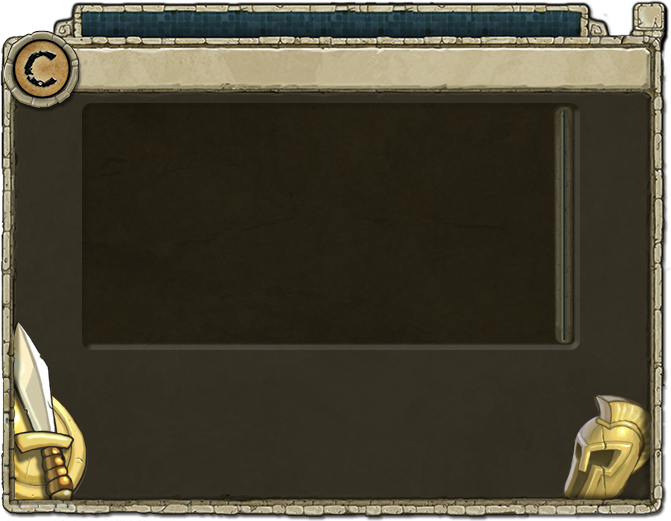
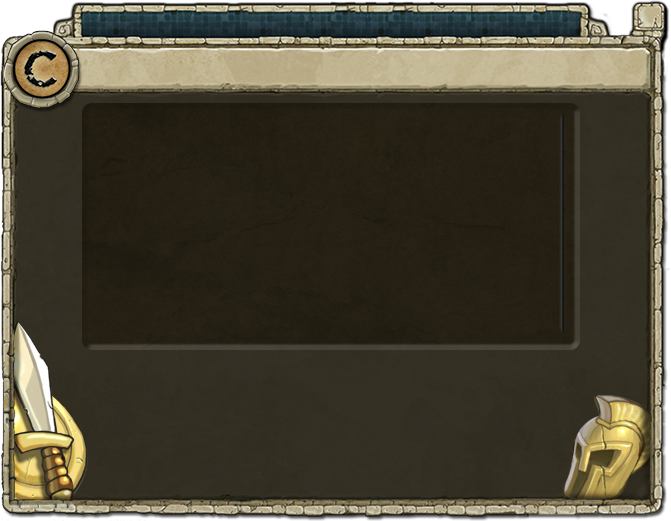
Fixed visual bugs in game scanner, download size progression

Changed region(s): [[0.8048, 0.1843, 0.8644, 0.6756]]

diff --git a/Celeste_Launcher_Gui/Windows/GameScannerWindow.xaml b/Celeste_Launcher_Gui/Windows/GameScannerWindow.xaml
@@ -25,7 +25,7 @@
         <Grid Width="510" Height="27" VerticalAlignment="Top" Margin="0,11,0,0" MouseDown="OnMoveWindow" Background="Transparent">
             <TextBlock Text="{x:Static p:Resources.GameScannerTitle}" Foreground="White" FontFamily="{StaticResource Ashley-Crawford-CG}" HorizontalAlignment="Center" VerticalAlignment="Center" FontSize="18"/>
         </Grid>
-        <TextBox Width="482" Height="230" Margin="90,110,0,0" HorizontalAlignment="Left" VerticalAlignment="Top" x:Name="tB_Report" Style="{StaticResource TextLog}" VerticalScrollBarVisibility="Visible"/>
+        <TextBox Width="481" Height="230" Margin="90,110,0,0" HorizontalAlignment="Left" VerticalAlignment="Top" x:Name="tB_Report" Style="{StaticResource TextLog}" VerticalScrollBarVisibility="Visible"/>
         <StackPanel VerticalAlignment="Top" HorizontalAlignment="Right" Margin="0,105,28,0">
             <Button Style="{StaticResource GenericCustomizedButton}" Width="53" Height="55"
                         theme:ButtonThemeProperties.DefaultIcon="pack://application:,,,/Celeste_Launcher_Gui;component/Resources/Icons/PatchNotes-Normal.png"
@@ -37,7 +37,7 @@
                         theme:ButtonThemeProperties.HoverIcon="pack://application:,,,/Celeste_Launcher_Gui;component/Resources/Icons/Discord-Hover.png" Margin="2" Click="OpenDiscord"
                         ToolTip="{x:Static p:Resources.GameScannerDiscordLabel}"/>
         </StackPanel>
-        <Grid HorizontalAlignment="Center" VerticalAlignment="Bottom" Margin="0,0,9,25" Height="146">
+        <Grid HorizontalAlignment="Center" VerticalAlignment="Bottom" Margin="0,0,9,25" Height="146" Width="{Binding ActualWidth, RelativeSource={RelativeSource AncestorType={x:Type Grid}}}">
             <StackPanel VerticalAlignment="Center" x:Name="UpdateProgressionControls">
                 <local:WideUpdateProgressBar x:Name="FileProgress"/>
                 <Label Content="Waiting" Foreground="White" FontFamily="{StaticResource Ashley-Crawford-CG}" FontSize="15" HorizontalAlignment="Center" x:Name="MainProgressLabel"/>

diff --git a/Celeste_Launcher_Gui/Windows/GameScannerWindow.xaml.cs b/Celeste_Launcher_Gui/Windows/GameScannerWindow.xaml.cs
@@ -120,7 +120,10 @@ namespace Celeste_Launcher_Gui.Windows
                     var speed = e.ScanAndRepairFileProgress.DownloadFileProgress.BytesReceived /
                                 (e.ScanAndRepairFileProgress.DownloadFileProgress.TotalMilliseconds / 1000);
 
-                    MainProgressLabel.Content = $"Downloading {e.ScanAndRepairFileProgress.FileName} ({Misc.ToFileSize(speed)}/s)"; ;
+                    MainProgressLabel.Content = $"Downloading " +
+                        $"{Misc.ToFileSize(e.ScanAndRepairFileProgress.DownloadFileProgress.BytesReceived)}/" +
+                        $"{Misc.ToFileSize(e.ScanAndRepairFileProgress.DownloadFileProgress.TotalBytesToReceive)}" +
+                        $"({Misc.ToFileSize(speed)}/s)";
                 }
                 else if (e.ScanAndRepairFileProgress.L33TZipExtractProgress != null)
                 {
